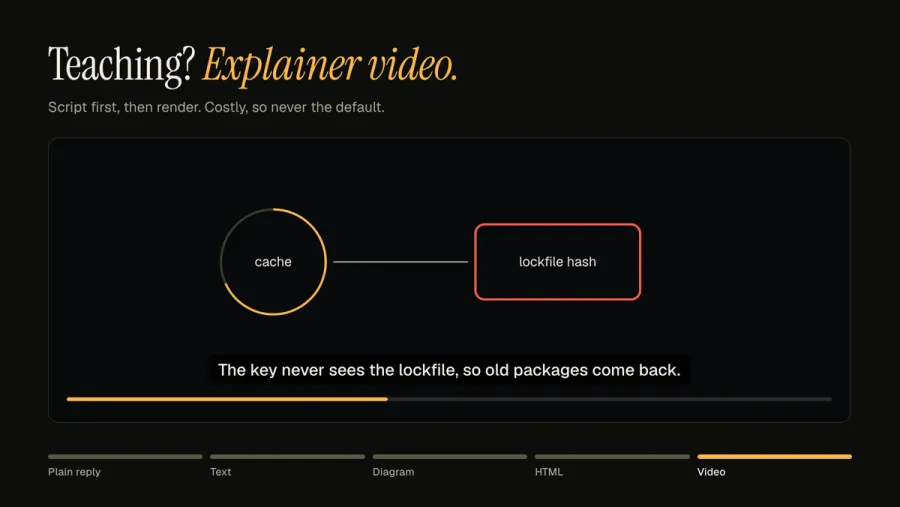
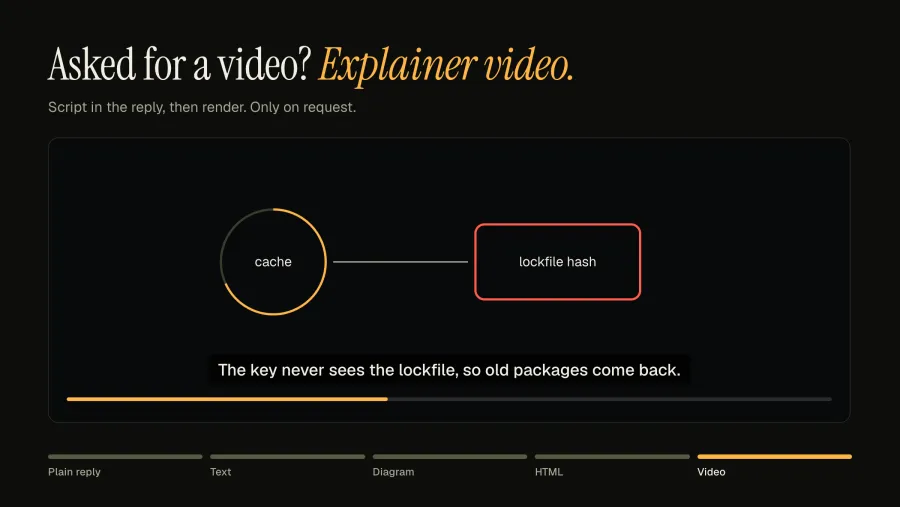
v2.3.2: Fable review — rung 3 wins over 2, video renders without approval gate, 20-60 s default, README trims

Changed region(s): [[0.0311, 0.0888, 0.6533, 0.1775], [0.0933, 0.2071, 0.4356, 0.2367]]

diff --git a/README.md b/README.md
@@ -10,17 +10,6 @@
   <a href="LICENSE"><img alt="License: MIT" src="https://img.shields.io/badge/license-MIT-ffb547?style=flat-square"></a>
 </p>
 
-<p align="center">
-  <b>Your agent writes a wall of text. You asked for one number.</b><br>
-  This skill makes the agent pick the format you can read fastest.
-</p>
-
----
-
-<p align="center">
-  <img src="assets/ladder.gif" alt="A wall of text becomes constrained text, then a diagram, then an HTML report, then an explainer video" width="100%">
-</p>
-
 ## The ladder
 
 Every reply is rung 1. A higher rung is added only when its criterion is met.
@@ -29,7 +18,7 @@ Every reply is rung 1. A higher rung is added only when its criterion is met.
 |:--:|---|---|---|
 | **1** | **Constrained text**<br><sub>about 80% ASD-STE100</sub> | Always. Result first, then evidence, then next step. | <img src="assets/rung-1.webp" alt="Result, evidence, next step" width="300"> |
 | **2** | **Diagram or chart**<br><sub>Mermaid or one SVG</sub> | A flow with 4–12 steps, or one data series where the shape is the answer. | <img src="assets/rung-2.webp" alt="Flowchart that names the failing step" width="300"> |
-| **3** | **Static HTML**<br><sub>one file, no JS</sub> | More than 6 findings, more than one chart, a large table, or you ask for a report. | <img src="assets/rung-3.webp" alt="Report with verdict, table and status colors" width="300"> |
+| **3** | **Static HTML**<br><sub>one file, no JS</sub> | More than 6 findings, more than one chart, a table over 5 columns or 15 rows, or you ask for a report. | <img src="assets/rung-3.webp" alt="Report with verdict, table and status colors" width="300"> |
 | **4** | **Explainer video**<br><sub>narrated MP4</sub> | Only when you ask. Uses ElevenLabs if `ELEVENLABS_API_KEY` is set, else local TTS. | <img src="assets/rung-4.webp" alt="Animated explainer with captions" width="300"> |
 
 ## Before and after
@@ -131,7 +120,7 @@ Real, unedited replies. Same model (Claude Opus 5.5 in Pi), same prompt, clean c
 
 ## Install
 
-The skill is one folder with a `SKILL.md`. Works in any harness that supports [Agent Skills](https://agentskills.io/specification).
+Works in any harness that supports [Agent Skills](https://agentskills.io/specification).
 
 ```bash
 git clone https://github.com/marcoleejr/explain-output.git
@@ -143,6 +132,8 @@ git clone https://github.com/marcoleejr/explain-output.git
 mkdir -p ~/.claude/skills
 cp -R explain-output/explain-output ~/.claude/skills/
 ```
+
+Invoke with `/explain-output`, or let Claude pick it from the description.
 
 ### Codex
 
@@ -165,7 +156,7 @@ Invoke with `/skill:explain-output`.
 
 ## Tested
 
-10 data scenarios, 2 runs each, clean Pi context: right format 20 of 20 with the skill, 12 of 20 without. Replies were 50% shorter and all opened with the result.
+10 data scenarios, 2 runs each, clean Pi context: right format 20 of 20 with the skill (v2.3), 12 of 20 without. Replies were 50% shorter and all opened with the result.
 
 ## Credit
 

diff --git a/explain-output/SKILL.md b/explain-output/SKILL.md
@@ -3,21 +3,21 @@ name: explain-output
 description: Shape every reply so the reader spends the least time to understand and decide. Use for every reply, from a one-line confirmation to a full audit, report, comparison or explanation. Base is constrained text (ASD-STE100 style). Escalate on fixed criteria to a diagram or chart, a single-file HTML report, or an explainer video.
 license: MIT
 metadata:
-  version: "2.3.1"
+  version: "2.3.2"
   author: marcoleejr
 ---
 
 # Explain output
 
-Goal: the reader spends the least time to understand and decide. Idea: [Karpathy, 2 Oct 2026](https://x.com/karpathy/status/2105819303471976479).
+Goal: the reader spends the least time to understand and decide.
 
 ## Choose the format
 
-Every reply is rung 1 text. Add a higher rung on top only when its row matches. If the user names a format, use it and skip this table. If two rungs match, use the lower one.
+Every reply is rung 1 text. Add a higher rung on top only when its row matches. If the user names a format, use it and skip this table. If rungs 2 and 3 both match, use rung 3 and put the diagram inside the HTML.
 
 | Rung | Add | Only when |
 |---|---|---|
-| 1 | Constrained text | Always. Adds no files and no tool calls. |
+| 1 | Constrained text | Always. Adds no artifact. |
 | 2 | Diagram or chart | A flow, architecture, dependency map, timeline or decision tree with 4 to 12 nodes (Mermaid). Or one data series or comparison where the shape matters: trend, correlation, distribution (one SVG or PNG chart). More than 12 nodes or more than one chart: rung 3. Read `references/diagram.md`. |
 | 3 | Single-file HTML | More than 6 findings, more than one chart, a table that needs more than 5 columns or 15 rows, or the user asks for a report or file. Read `references/html-report.md`. |
 | 4 | Explainer video | The user asks for a video. Read `references/video.md`. |
@@ -34,7 +34,7 @@ About 80% ASD-STE100, in the user's language and tone.
 4. Active voice. Imperative for instructions: "Run X".
 5. One term, one meaning. Concrete nouns and numbers, never "several" or "significant".
 6. No preamble, no restating the question, no closing offer.
-7. Bullets for parallel items, numbers for a sequence. Markdown table for 2+ items with 2+ attributes.
+7. Bullets for parallel items, numbers for a sequence. Markdown table for 3+ items with 2+ attributes.
 8. Code, commands, paths and errors in backticks or fenced blocks.
 
 Before: "After looking into it, there seem to be several issues with the deploy pipeline, mostly around caching."

diff --git a/explain-output/references/video.md b/explain-output/references/video.md
@@ -1,7 +1,7 @@
 # Rung 4 — Explainer video (on request only)
 
-- Write the script as rung 1 text first. Get approval before rendering.
-- Length the user asks for; default 60 to 120 seconds. 16:9 for lessons, 9:16 for short-form.
+- Put the script in the reply as rung 1 text, then render.
+- Length the user asks for; otherwise as short as the script needs, 20 to 60 seconds. 16:9 for lessons, 9:16 for short-form.
 - Animation: Manim, or HTML/SVG captured with ffmpeg. Narration: if `ELEVENLABS_API_KEY` is set, use ElevenLabs. Otherwise use local or free TTS (macOS `say`, Piper). No TTS: script plus silent animation.
 - Never print or log an API key. Read it from the environment.
 - Sync: generate audio per scene first, measure each clip, then time the visuals to the audio.
